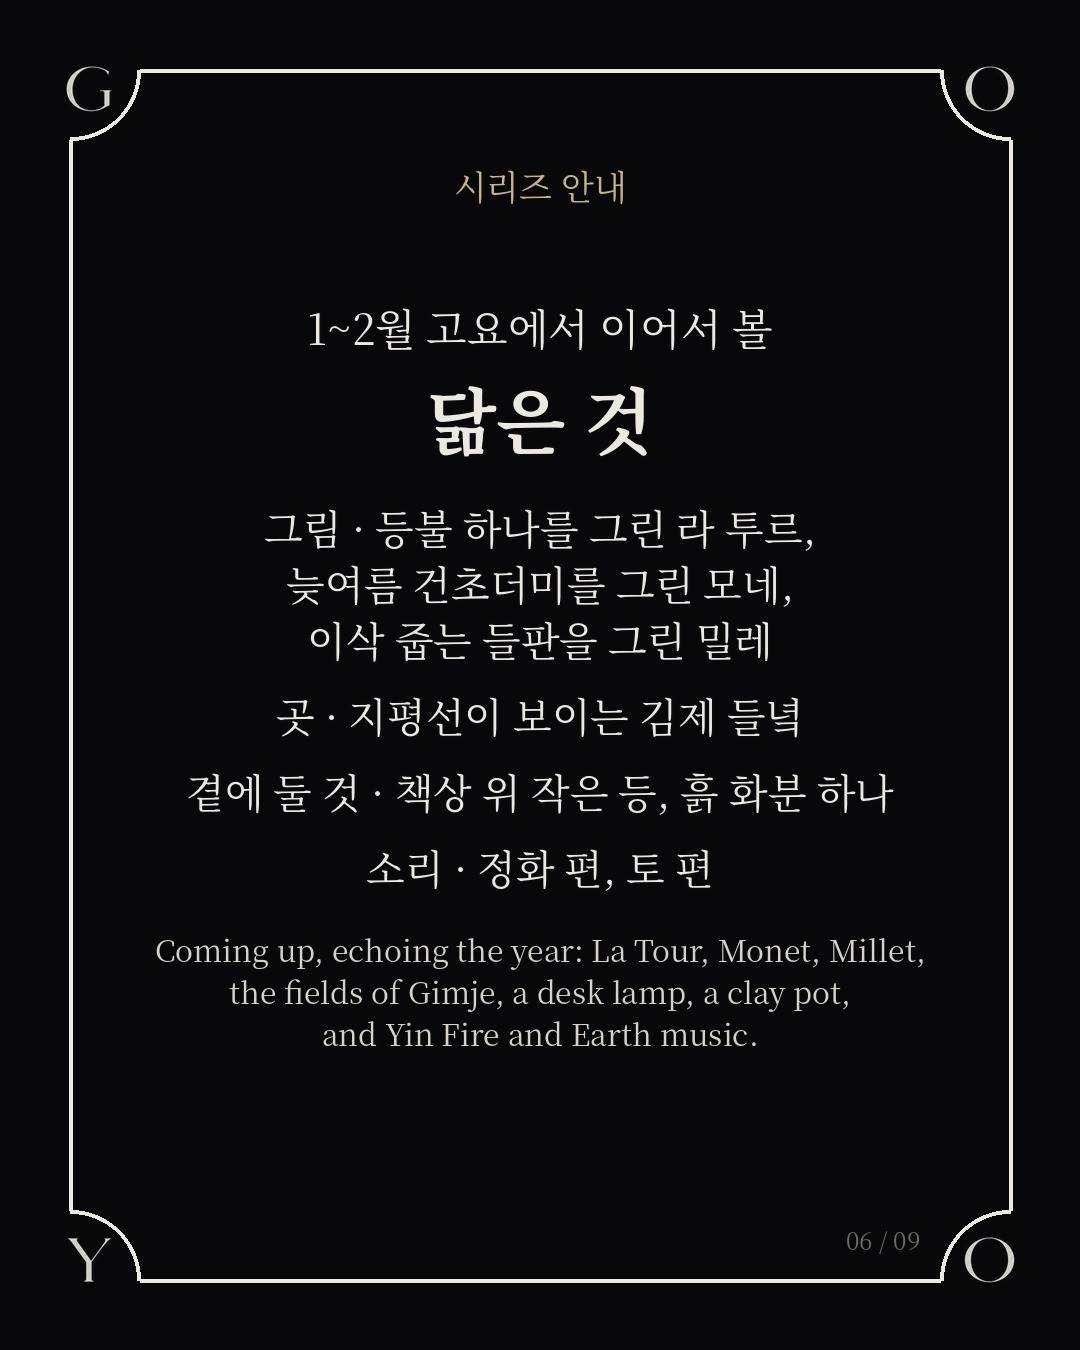
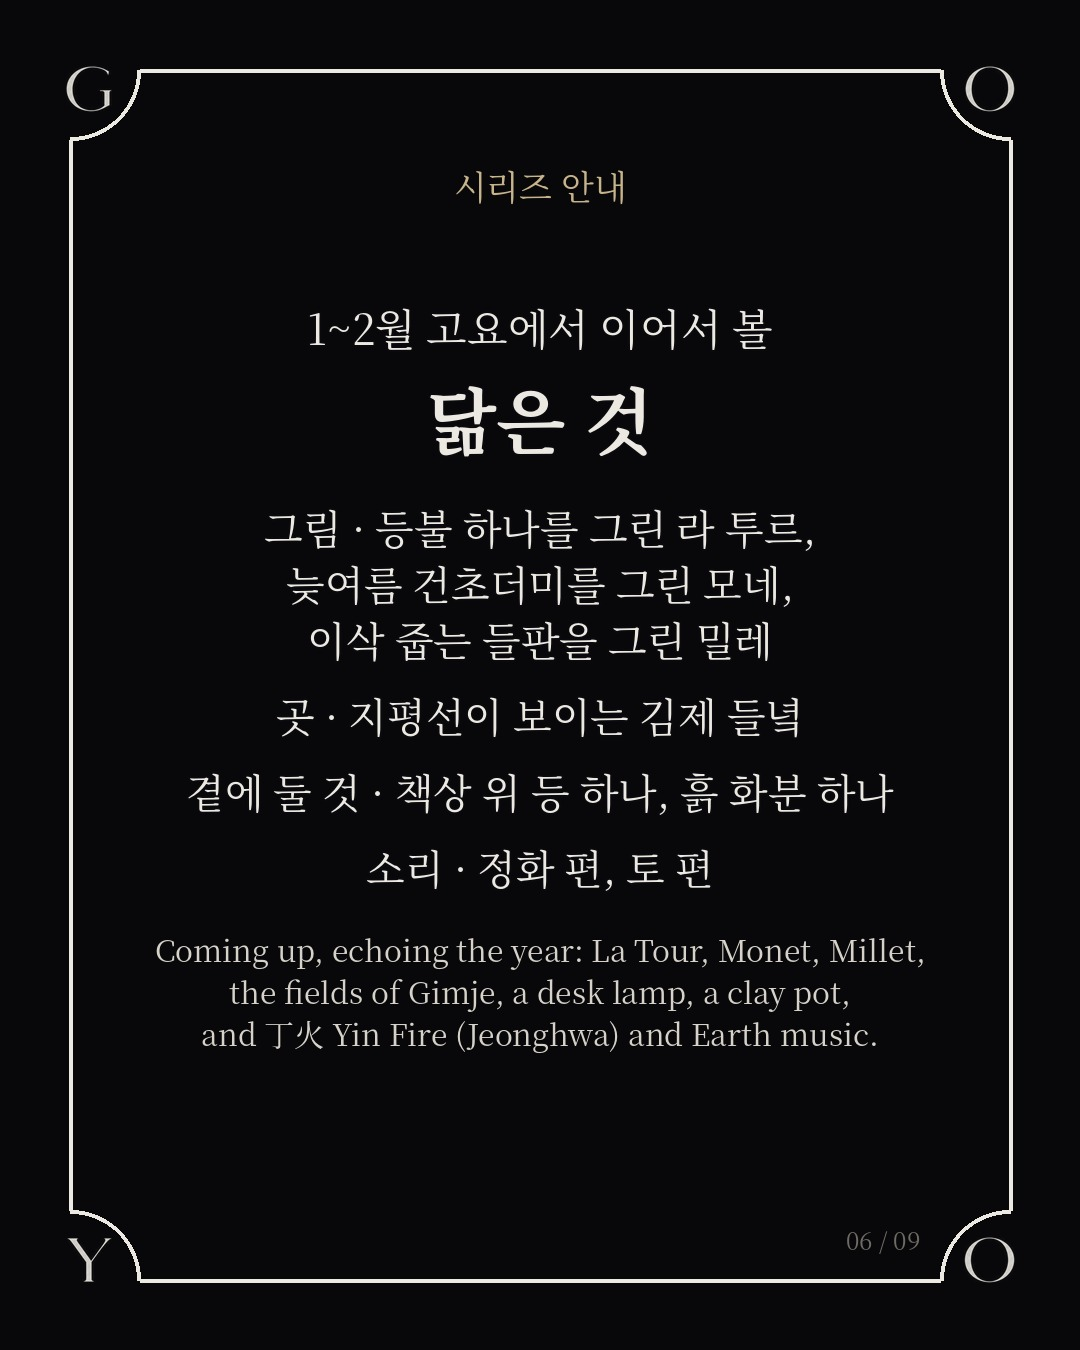
1/17 적천수 인용 정확도(병화·정화로, 柔中 풀이, 생략표), 1/6 처마 풍경·등 하나·영어 첫 표기
Claude-Session: https://claude.ai/code/session_01YKKUv5W4Y1G1o2h4KJ6tQ6

Changed region(s): [[0.275, 0.7467, 0.7944, 0.7778], [0.4889, 0.56, 0.6111, 0.6222], [0.1833, 0.7467, 0.2444, 0.7778]]

diff --git a/jeongmi/build.py b/jeongmi/build.py
@@ -232,16 +232,16 @@ P['0106'] = dict(
      T('丁火 Yin Fire (Jeonghwa) is a lamp\nthat lights what is near, for a long time.', 34, EN, gap=0)], tag='가까이 오래 비추는 빛'),
   S([T('해는 멀리서 모두를 비추고,\n등불은 가까이에서\n한 사람의 얼굴과 손을 비춰요.', 54, gap=36),
      T('The sun lights everyone from afar.\nA lamp lights one person\'s\nface and hands, up close.', 34, EN, gap=0)], tag='같은 불, 다른 빛'),
-  S([T('옛 명리 책 『적천수』는 해를 두고', 42, gap=26), T('세차고 사나워서\n서리와 눈도\n업신여긴다고 했어요.', 62, bold=True, gap=30),
-     T('丙火猛烈 欺霜侮雪', 40, GOLD, gap=26), T('겨울 추위에도 꺾이지 않고\n멀리까지 뻗는 빛이라는 뜻이에요.', 44, gap=34),
-     T('Di Tian Sui (滴天髓), a Saju classic, on Yang Fire:\n"Fierce and blazing, it scorns frost and snow."', 32, EN, gap=0)], tag='옛 책이 본 해'),
-  S([T('같은 책은 등불을 두고', 42, gap=26), T('겉은 부드럽고\n속은 환하게 밝다고 했어요.', 58, bold=True, gap=24),
+  S([T('옛 명리 책 『적천수』는 병화를 두고', 42, gap=26), T('세차고 사나워서\n서리와 눈도\n업신여긴다고 했어요.', 62, bold=True, gap=30),
+     T('丙火猛烈 欺霜侮雪', 40, GOLD, gap=26), T('겨울 추위에도\n기세가 꺾이지 않는 불이라는 뜻이에요.', 44, gap=34),
+     T('Di Tian Sui (滴天髓), a classic Saju text, on Yang Fire:\n"Fierce and blazing, it scorns frost and snow."', 32, EN, gap=0)], tag='옛 책이 본 해'),
+  S([T('같은 책은 정화를 두고', 42, gap=26), T('부드럽고 치우치지 않으며\n속은 환하게 밝다고 했어요.', 56, bold=True, gap=24),
      T('세져도 사납게 타지 않고,\n약해져도 다하지 않는다고요.', 52, bold=True, gap=26),
-     T('丁火柔中 內性昭融 · 旺而不烈 衰而不窮', 34, GOLD, gap=26), T('가까이 오래 비추는 빛이 여기서 나와요.', 42, gap=34),
-     T('On Yin Fire: "Gentle outside, bright within.\nStrong, it does not rage; weak, it does not run out."', 32, EN, gap=0)], tag='옛 책이 본 등불'),
+     T('丁火柔中 內性昭融 … 旺而不烈 衰而不窮', 34, GOLD, gap=26), T('등불이 오래 비추는 빛인 까닭이 여기 있어요.', 40, gap=34),
+     T('On Yin Fire: "Gentle and centered, bright within.\nStrong, it does not rage; weak, it does not run out."', 32, EN, gap=0)], tag='옛 책이 본 등불'),
   S([T('2026년의 빛은 해,\n2027년의 빛은 등불이에요.', 58, bold=True, gap=30), T('넓게 퍼지는 빛이 입춘부터\n가까운 자리를 오래 밝히는\n빛으로 옮겨 가요.', 46, gap=30),
      T('사주에서는 입춘(2월 4일)에 한 해가 바뀌어요.', 38, gap=30), T('1월 7일 그림 읽기의 라 투르도\n등불 하나를 그렸어요.', 42, GOLD, gap=30),
-     T('In 2026 the light is the sun; in 2027, a lamp.\nLa Tour painted one in our Jan 7 post.', 32, EN, gap=0)], tag='해에서 등불로'),
+     T('In 2026 the light is the sun; in 2027, a lamp.\nLa Tour, from our Jan 7 post, painted one.', 32, EN, gap=0)], tag='해에서 등불로'),
   S([T('다섯 가지 고요', 56, bold=True, gap=10), T('정화 편', 96, bold=True, gap=34),
      T('가까운 자리를 오래 밝히는\n등불 같은 소리예요.', 52, gap=24), T('지금 고른 곡은 『Lantern Room』이에요.', 42, gap=30),
      T('음악은 프로필 링크에서', 46, GOLD, gap=30),
@@ -265,7 +265,7 @@ P['0106'] = dict(
  ],
  caption="""빛에도 두 가지가 있어요.
 
-병화는 하늘의 해예요. 사방을 고루, 멀리까지 비추는 빛이에요. 정화는 등불이에요. 가까운 자리를 오래 밝히는 빛이에요. 해는 멀리서 모두를 비추고, 등불은 가까이에서 한 사람의 얼굴과 손을 비춰요. 옛 명리 책 『적천수』는 해를 두고 「세차고 사나워서 서리와 눈도 업신여긴다(丙火猛烈 欺霜侮雪)」고 했어요. 겨울 추위에도 꺾이지 않고 멀리까지 뻗는 빛이에요. 같은 책은 등불을 두고 「겉은 부드럽고 속은 환하게 밝다(丁火柔中 內性昭融)」, 「세져도 사납게 타지 않고 약해져도 다하지 않는다(旺而不烈 衰而不窮)」고 했어요. 가까이 오래 비추는 빛이 여기서 나와요. 1월 3일 진주 편에서 말한 등불(정화)과 강물(임수)의 짝도 이 책의 같은 대목에 나와요(合壬).
+병화는 하늘의 해예요. 사방을 고루, 멀리까지 비추는 빛이에요. 정화는 등불이에요. 가까운 자리를 오래 밝히는 빛이에요. 해는 멀리서 모두를 비추고, 등불은 가까이에서 한 사람의 얼굴과 손을 비춰요. 옛 명리 책 『적천수』는 병화를 두고 「세차고 사나워서 서리와 눈도 업신여긴다(丙火猛烈 欺霜侮雪)」고 했어요. 겨울 추위에도 기세가 꺾이지 않는 불이라는 뜻이에요. 같은 책은 정화를 두고 「부드럽고 치우치지 않으며 속은 환하게 밝다(丁火柔中 內性昭融)」, 「세져도 사납게 타지 않고 약해져도 다하지 않는다(旺而不烈 衰而不窮)」고 했어요. 등불이 오래 비추는 빛인 까닭이 여기 있어요. 1월 3일 진주 편에서 말한 등불(정화)과 강물(임수)의 짝도 이 책의 같은 대목(合壬而忠)에 나와요.
 
 2026년의 빛이 해라면, 2027년의 빛은 등불이에요. 넓게 퍼지는 빛이 입춘부터 가까운 자리를 오래 밝히는 빛으로 옮겨 가요. 사주에서는 입춘(2월 4일)에 한 해가 바뀌어요.
 
@@ -276,13 +276,13 @@ P['0106'] = dict(
 · English ·
 There are two kinds of light.
 
-丙火 Yang Fire (Byeonghwa) is the sun in the sky, lighting everything, far and wide. 丁火 Yin Fire (Jeonghwa) is a lamp that lights what is near, for a long time. The sun lights everyone from afar; a lamp lights one person's face and hands, up close. The old Saju classic Di Tian Sui (滴天髓) tells the two fires apart. Of Yang Fire: "fierce and blazing, it scorns frost and snow," a light that reaches far even in winter. Of Yin Fire: "gentle outside, bright within; strong, it does not rage; weak, it does not run out." That is where the close, lasting light comes from. The pairing of the lamp with a wide river, 壬水 Yang Water (Imsu), from our January 3 Jinju post, appears in the same passage.
+丙火 Yang Fire (Byeonghwa) is the sun in the sky, lighting everything, far and wide. 丁火 Yin Fire (Jeonghwa) is a lamp that lights what is near, for a long time. The sun lights everyone from afar; a lamp lights one person's face and hands, up close. The old Saju classic Di Tian Sui (滴天髓) tells the two fires apart. Of Yang Fire: "fierce and blazing, it scorns frost and snow," a fire whose force holds even in winter. Of Yin Fire: "gentle and centered, bright within; strong, it does not rage; weak, it does not run out." That is why we call the lamp a lasting light. The lamp-and-river pair from our January 3 Jinju post, Yin Fire with 壬水 Yang Water (Imsu), comes from the same passage.
 
 If 2026's light is the sun, 2027's is a lamp. From the start of spring, the wide light turns to a close, steady one. In Saju, the year turns at the start of spring (立春), February 4.
 
-Georges de La Tour, in our January 7 painting post, painted a single lamp.
+The Georges de La Tour painting in our January 7 post shows a single lamp.
 
-Five Kinds of Quiet · Yin Fire, with the track Lantern Room. Listen through the link in bio.
+From Five Kinds of Quiet · Yin Fire, today's track is Lantern Room. Listen through the link in bio.
 
 #고요 #고요이야기 #정미년 #병화 #정화 #적천수 #사주 #오행음악 #saju #fiveelements""",
  reel_caption="""빛에도 두 가지가 있어요.
@@ -462,21 +462,21 @@ P['0106v'] = dict(
      T('Fire feeds Earth, and Earth feeds Metal. In hot, dry times, old texts look to Metal and Water too.', 32, EN, gap=0)], tag='명리로 보면'),
   S([T('1~2월 고요에서 이어서 볼', 42, gap=10), T('닮은 것', 72, bold=True, gap=30),
      T('그림 · 등불 하나를 그린 라 투르,\n늦여름 건초더미를 그린 모네,\n이삭 줍는 들판을 그린 밀레', 40, gap=20),
-     T('곳 · 지평선이 보이는 김제 들녘', 40, gap=20), T('곁에 둘 것 · 책상 위 작은 등, 흙 화분 하나', 40, gap=20),
+     T('곳 · 지평선이 보이는 김제 들녘', 40, gap=20), T('곁에 둘 것 · 책상 위 등 하나, 흙 화분 하나', 40, gap=20),
      T('소리 · 정화 편, 토 편', 40, gap=34),
-     T('Coming up, echoing the year: La Tour, Monet, Millet,\nthe fields of Gimje, a desk lamp, a clay pot,\nand Yin Fire and Earth music.', 30, EN, gap=0)], tag='시리즈 안내'),
+     T('Coming up, echoing the year: La Tour, Monet, Millet,\nthe fields of Gimje, a desk lamp, a clay pot,\nand 丁火 Yin Fire (Jeonghwa) and Earth music.', 30, EN, gap=0)], tag='시리즈 안내'),
   S([T('1~2월 고요에서 이어서 볼', 40, gap=8), T('식혀 주는 것', 68, bold=True, gap=26),
      T('그림 · 비 갠 인왕산 바위를 그린 정선,\n다리 위 소나기를 그린 히로시게', 38, gap=16),
-     T('곳 · 서울 인왕산과 수성동 계곡', 38, gap=16), T('곁에 둘 것 · 유리 물병, 놋그릇, 작은 풍경', 38, gap=16),
+     T('곳 · 서울 인왕산과 수성동 계곡', 38, gap=16), T('곁에 둘 것 · 유리 물병, 놋그릇, 처마 풍경(風磬)', 38, gap=16),
      T('소리 · 계수 편, 경금 편, 금 편, 수 편', 38, gap=20),
      T('둘이 한 장면에 있는 곳은\n1월 3일의 진주 남강유등이에요.', 38, GOLD, gap=24),
-     T('Coming up, beside its heat: Jeong Seon, Hiroshige,\nInwangsan and its valley, a glass carafe,\nbrassware, a wind chime, and Water and Metal music.\nBoth meet in Jinju.', 30, EN, gap=0)], tag='시리즈 안내'),
+     T('Coming up, beside its heat: Jeong Seon, Hiroshige,\nInwangsan and its valley, a glass carafe, brassware,\na wind chime, and 癸水 Yin Water (Gyesu),\n庚金 Yang Metal (Gyeonggeum), Metal and Water music.\nThe two share one scene in Jinju (our Jan 3 post).', 30, EN, gap=0)], tag='시리즈 안내'),
   S([T('불과 물이 내 사주에\n얼마나 있는지는\n무료 앱에서 볼 수 있어요.', 54, gap=34), T('어느 쪽이 더 어울리는지는\n사주 전체를 봐야 알 수 있어요.', 52, bold=True, gap=36),
      T('Your chart\'s Fire and Water: see our free app.\nWhich side suits you depends on your whole chart.', 30, EN, gap=0)], tag='내게는 어느 쪽일까요'),
   S([T('다섯 가지 고요', 56, bold=True, gap=10), T('계수 편', 96, bold=True, gap=34),
      T('마른 흙에 조용히 스미는\n비 같은 소리예요.', 52, gap=24), T('첫 곡은 『Drizzle』이에요.', 44, gap=30),
      T('음악은 프로필 링크에서', 46, GOLD, gap=30),
-     T('Five Kinds of Quiet · 癸水 Yin Water (Gyesu).\nThe first track is Drizzle.\nListen through the link in bio.', 32, EN, gap=0)], tag='틀어 두기 좋은 소리'),
+     T('Five Kinds of Quiet · Yin Water.\nThe first track is Drizzle.\nListen through the link in bio.', 32, EN, gap=0)], tag='틀어 두기 좋은 소리'),
  ],
  reel=[
   dict(sec=4.5, instant=True, items=[T('1월 6일', 50, GOLD, gap=34), T('닮은 것,\n식혀 주는 것', 118, bold=True, gap=50), T('Two ways to keep company with 2027', 40, EN, gap=0)]),
@@ -500,7 +500,7 @@ P['0106v'] = dict(
 
 닮은 것은 2027년의 모양을 그대로 담은 것이에요. 등불, 늦여름 들판, 거둔 것을 품는 흙. 식혀 주는 것은 그 열기 곁에 둘 서늘한 것이에요. 물, 그리고 흙의 열을 받아 흘려보내는 쇠와 바위. 불은 흙을 낳고 흙은 쇠를 낳아서, 옛 책은 불과 흙이 많아 덥고 마른 때에 쇠와 물을 함께 봐요.
 
-1~2월 고요에서는 두 갈래를 하나씩 이어서 볼 거예요. 닮은 것으로는 등불 하나를 그린 라 투르, 늦여름 건초더미를 그린 모네, 이삭 줍는 들판을 그린 밀레의 그림, 지평선이 보이는 김제 들녘, 책상 위 작은 등과 흙 화분 하나, 정화 편과 토 편의 소리가 있어요. 식혀 주는 것으로는 비 갠 인왕산 바위를 그린 정선과 다리 위 소나기를 그린 히로시게의 그림, 서울 인왕산과 수성동 계곡, 유리 물병과 놋그릇과 작은 풍경, 계수·경금·금·수 편의 소리가 있어요. 둘이 한 장면에 있는 곳은 1월 3일에 소개한 진주 남강유등이에요.
+1~2월 고요에서는 두 갈래를 하나씩 이어서 볼 거예요. 닮은 것으로는 등불 하나를 그린 라 투르, 늦여름 건초더미를 그린 모네, 이삭 줍는 들판을 그린 밀레의 그림, 지평선이 보이는 김제 들녘, 책상 위 등 하나와 흙 화분 하나, 정화 편과 토 편의 소리가 있어요. 식혀 주는 것으로는 비 갠 인왕산 바위를 그린 정선과 다리 위 소나기를 그린 히로시게의 그림, 서울 인왕산과 수성동 계곡, 유리 물병과 놋그릇과 처마 풍경(風磬), 계수·경금·금·수 편의 소리가 있어요. 둘이 한 장면에 있는 곳은 1월 3일에 소개한 진주 남강유등이에요.
 
 불과 물이 내 사주에 얼마나 있는지는 무료 앱에서 볼 수 있어요. 어느 쪽이 더 어울리는지는 사주 전체를 봐야 알 수 있어요. 앱은 프로필 링크에 있어요.
 
@@ -513,7 +513,7 @@ What echoes 2027, and what sits beside its heat.
 
 What echoes the year: a lamp, late-summer fields, earth that holds the harvest. What sits beside its heat: water, and metal and stone that take in the earth's warmth and let it go. Fire feeds Earth and Earth feeds Metal, so in hot, dry times the old texts look to Metal and Water too.
 
-Over January and February we'll look at each side in turn. Echoing the year: La Tour's lamp, Monet's haystacks, Millet's gleaners, the open fields of Gimje, a small desk lamp and a clay pot, and Yin Fire and Earth music. Beside its heat: Jeong Seon's rain-washed rocks on Inwangsan, Hiroshige's sudden shower, Inwangsan and its valley, a glass carafe, brassware and a wind chime, and Water and Metal music. Both meet at the Jinju lantern festival from our January 3 post.
+Over January and February we'll look at each side in turn. Echoing the year: La Tour's lamp, Monet's haystacks, Millet's gleaners, the open fields of Gimje, a desk lamp and a clay pot, and 丁火 Yin Fire (Jeonghwa) and Earth music. Beside its heat: Jeong Seon's Inwangsan after the rain, Hiroshige's sudden shower over a bridge, Inwangsan and its valley, a glass carafe, brassware and a wind chime, and Water and Metal music. The two share one scene at the Jinju lantern festival, from our January 3 post.
 
 You can see how much Fire and Water your chart holds in our free app. Which side suits you better depends on your whole chart. The app is linked in our bio.
 
